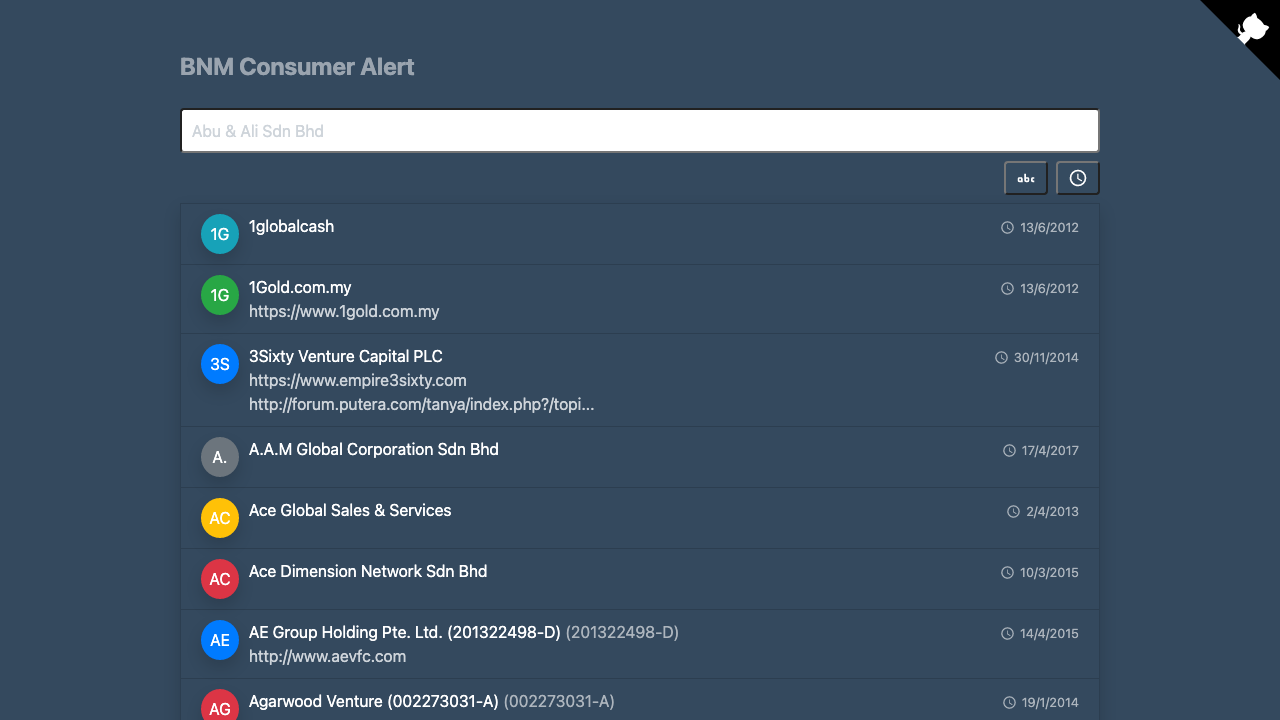
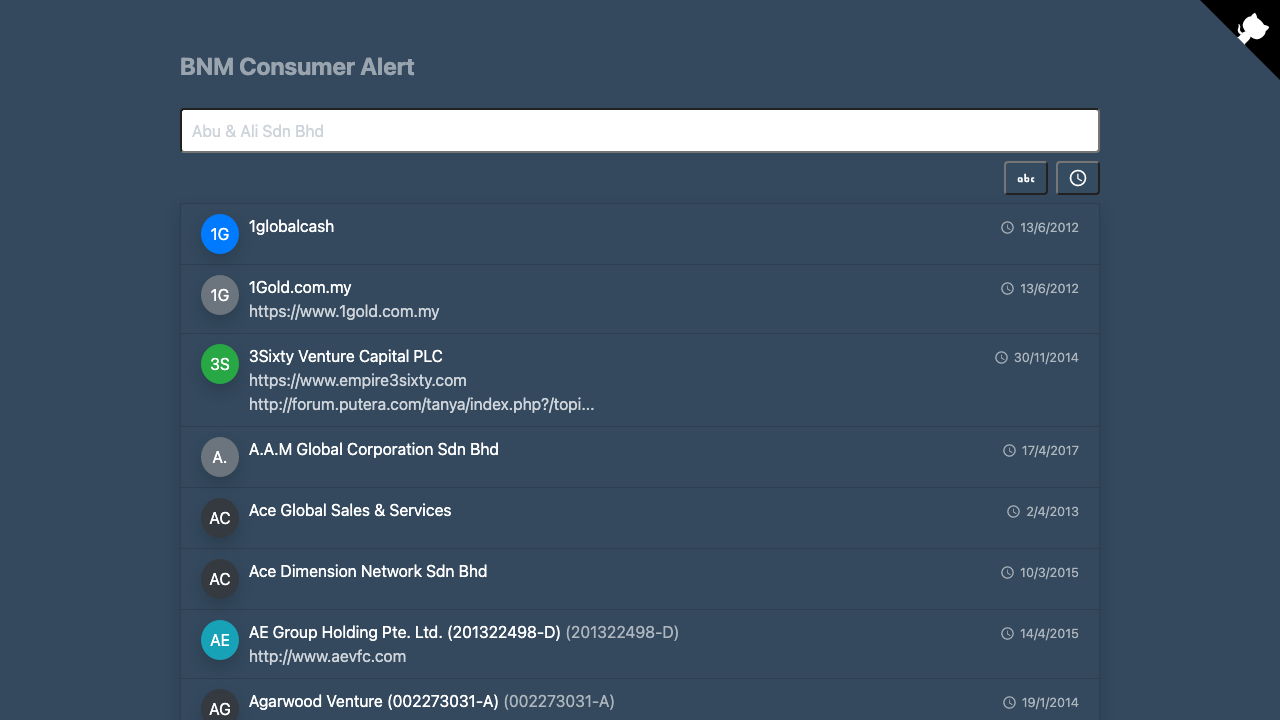
update static image

Changed region(s): [[0.1562, 0.275, 0.1875, 0.55], [0.1562, 0.6722, 0.1875, 0.9167], [0.1562, 0.9472, 0.1875, 1.0]]

diff --git a/scripts/grab-seo-img.js b/scripts/grab-seo-img.js
@@ -2,43 +2,99 @@ const fs = require('fs/promises')
 const data = require('../personal-data.json')
 const { chromium } = require('playwright-chromium')
 
-const useSEOImg = async (browser, p) => {
+const useSEOImg = async (browser, url) => {
   try {
-    const page = await browser.newPage()
-    await page.goto(p.github_url)
+    const page = await browser.newPage({ colorScheme: 'dark' })
+    await page.goto(url)
 
-    return await page.evaluate(() => document.querySelector('meta[property="og:image"]').getAttribute('content'))
+    return await page.evaluate(() => {
+      const isOgImgExist = document.querySelector('meta[property="og:image"]')
+      const isTwitterImgExist = document.querySelector('meta[property="twitter:image:src"]')
+
+      if (isOgImgExist) {
+        return isOgImgExist.getAttribute('content')
+      } else if (isTwitterImgExist) {
+        return isTwitterImgExist.getAttribute('content')
+      } else {
+        return ''
+      }
+    })
   } catch (err) {
-    console.error('Unable to obtain github seo image at:', p.github_url, err)
+    console.error('Unable to obtain github seo image at:', url, err)
   }
 }
 
-const useScreenshot = async (browser, p) => {
+const useScreenshot = async (browser, p, screenshotOptions, outputPath) => {
   try {
-    const page = await browser.newPage()
+    const page = await browser.newPage({ colorScheme: 'dark' })
     await page.goto(p.web_url)
 
     // some page load slower, so have to add delay to js
     await page.evaluate(() => new Promise(resolve => setTimeout(resolve, 1000)))
 
-    await page.screenshot({ path: `./public/assets/projects/${p.name}.png` })
-    return `/assets/projects/${p.name}.png`
+    await page.screenshot(screenshotOptions)
+    return outputPath
   } catch (err) {
-    console.error('Unable to take screenshot', p.url, err)
+    console.error('Unable to take screenshot', p.web_url, err)
+  }
+}
+
+async function getRoutesImages(browser) {
+  try {
+    const routes = [
+      { web_url: '', name: 'Home' },
+      { web_url: 'side-projects', name: 'side-projects' },
+      { web_url: 'blogs', name: 'Blogs' },
+    ].map(route => ({ ...route, web_url: `${'http://localhost:3000'}/${route.web_url}` }))
+
+    return await Promise.all(
+      routes.map(
+        async r =>
+          await useScreenshot(
+            browser,
+            r,
+            { path: `./public/assets/routes/${r.name}.png` },
+            `/assets/routes/${r.name}.png`,
+          ),
+      ),
+    )
+  } catch (e) {
+    console.error('Failed to getRoutesImages', e)
+  }
+}
+
+async function generateSideProjectImg(browser) {
+  try {
+    const projects = data.projects.map(async p => ({
+      ...p,
+      img: p.web_url
+        ? await useScreenshot(
+            browser,
+            p,
+            { path: `./public/assets/projects/${p.name}.png` },
+            `/assets/projects/${p.name}.png`,
+          )
+        : await useSEOImg(browser, p.github_url),
+    }))
+
+    const newProjects = await Promise.all(projects)
+
+    await fs.writeFile('./personal-data.json', JSON.stringify({ ...data, projects: newProjects }, null, 2), 'utf-8')
+  } catch (e) {
+    console.error('Failed to generateSideProjectImg', e)
   }
 }
 
 ;(async () => {
-  const browser = await chromium.launch()
+  let browser
+  try {
+    browser = await chromium.launch({ headless: true })
 
-  Promise.all(
-    data.projects.map(async p => ({
-      ...p,
-      img: p.web_url ? await useScreenshot(browser, p) : await useSEOImg(browser, p),
-    }))
-  )
-    .then(projects => {
-      return fs.writeFile('./personal-data.json', JSON.stringify({ ...data, projects }, null, 2), 'utf-8')
-    })
-    .finally(async () => await browser.close())
+    await getRoutesImages(browser)
+    await generateSideProjectImg(browser)
+  } catch (e) {
+    console.error('Whole process gone wrong')
+  } finally {
+    await browser.close()
+  }
 })()

diff --git a/pages/index.tsx b/pages/index.tsx
@@ -1,6 +1,7 @@
 import { useEvent } from 'react-use'
 import { useCallback, useRef, useState } from 'react'
 import { HeroSection, IconBox, Nav, Skills } from '@components'
+import { NextSeo } from 'next-seo'
 
 const navHeader = '88px'
 const arrowHeight = '6vh'
@@ -20,6 +21,7 @@ export default function Home() {
 
   return (
     <>
+      <NextSeo title={`Hi, I'm Azriz Haziq Jasni`} description={'Welcome to my website, hope you enjoy'} />
       <Nav />
       <main className='max-w-7xl mx-auto'>
         <div className='flex flex-col justify-center items-center mx-auto space-y-4 max-w-4xl' style={{ minHeight }}>

diff --git a/next-seo.config.ts b/next-seo.config.ts
@@ -1,11 +1,13 @@
+import data from './personal-data.json'
 import { DefaultSeoProps } from 'next-seo/lib/types'
 
 const NextSeo: DefaultSeoProps = {
   openGraph: {
     type: 'website',
     locale: 'en_us',
-    url: `${process.env.NEXT_PUBLIC_HOSTNAME}`,
-    site_name: '',
+    url: process.env.NEXT_PUBLIC_HOSTNAME,
+    site_name: data.alias,
+    images: [{ url: `${process.env.NEXT_PUBLIC_HOSTNAME}/routes/home.png`, alt: 'Azriz Haziq Jasni' }],
   },
   twitter: {
     handle: '@azrizhaziq',

diff --git a/.prettierrc.js b/.prettierrc.js
@@ -1,7 +1,7 @@
 module.exports = {
   arrowParens: 'avoid',
   semi: false,
-  trailingComma: 'es5',
+  trailingComma: 'all',
   singleQuote: true,
   printWidth: 120,
   jsxBracketSameLine: true,
